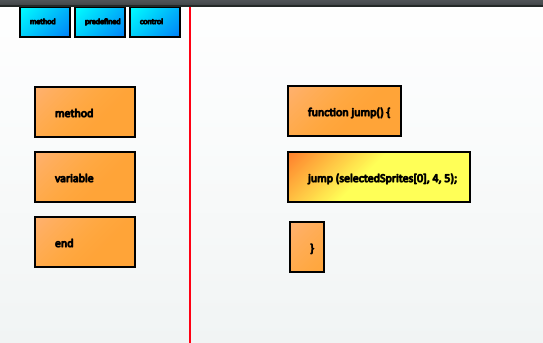
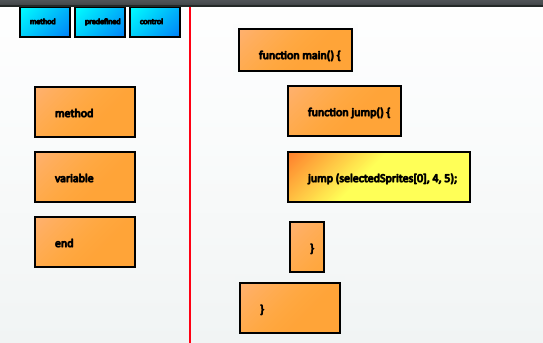
fixes tutorial to correspond with changes

Changed region(s): [[0.4125, 0.0583, 0.6483, 0.2332], [0.442, 0.8163, 0.6483, 0.9913]]

diff --git a/Trunk/help.html b/Trunk/help.html
@@ -31,7 +31,9 @@
 
 		<br><br><center><img src="tutorialPix/loadObject.png" width=800 height=500 align="middle"></center><br>
 
-		Now you're ready to code! On the right side of the screen is your coding area. The blue boxes are categories, and the orange boxes are coding boxes. You can drag the orange boxes over the red line to put them in your code. Below I have coded a simple jump. I dragged over the "method" box and called my method "jump", but didn't enter any parameters. Then went to the "predefined" category and dragged over the "jump" box while having my stick figure selected. (To select a stick figure, just click them, they will glow to show that they are active) I also was prompted to enter the duration and height of the jump. Finally, I went back to the "method" category and dragged over the "end" box to end my method. And just like that, I have a simple method to make my stick figure jump!
+		Now you're ready to code! On the right side of the screen is your coding area. The blue boxes are categories, and the orange boxes are coding boxes. You can drag the orange boxes over the red line to put them in your code. All code must go inside of the "main()" function. If you need more space, you can always drag boxes around to resize, and if you want to delete boxes, you can drag it back over the red line.
+		<br><br>
+		Below I have coded a simple jump. I dragged over the "method" box and called my method "jump", but didn't enter any parameters. Then went to the "predefined" category and dragged over the "jump" box while having my stick figure selected. (To select a stick figure, just click them, they will glow to show that they are active) I also was prompted to enter the duration and height of the jump. Finally, I went back to the "method" category and dragged over the "end" box to end my method. And just like that, I have a simple method to make my stick figure jump!
 
 		<br><br><center><img src="tutorialPix/coding.png" align="middle"></center><br>
 

diff --git a/Trunk/help.css b/Trunk/help.css
@@ -16,6 +16,7 @@ body{
 	width: 100%;
 	background-attachment: fixed;
 	color:#FFFFFF;
+	font-size: 14pt;
 }
 h1{
 	text-align: center;
